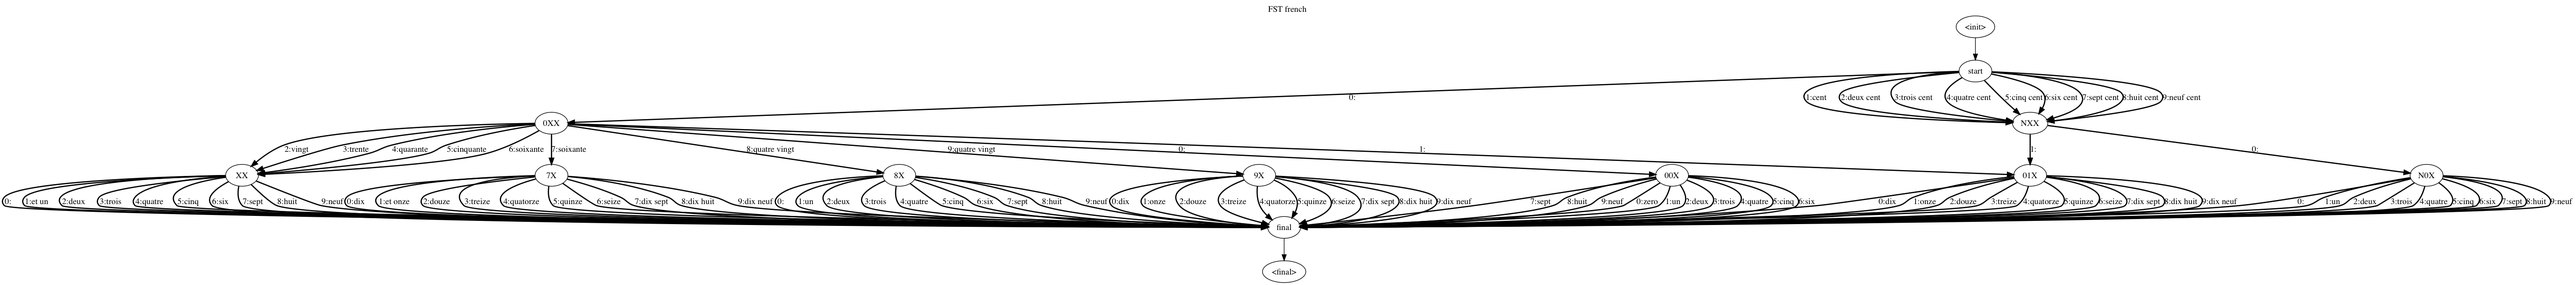
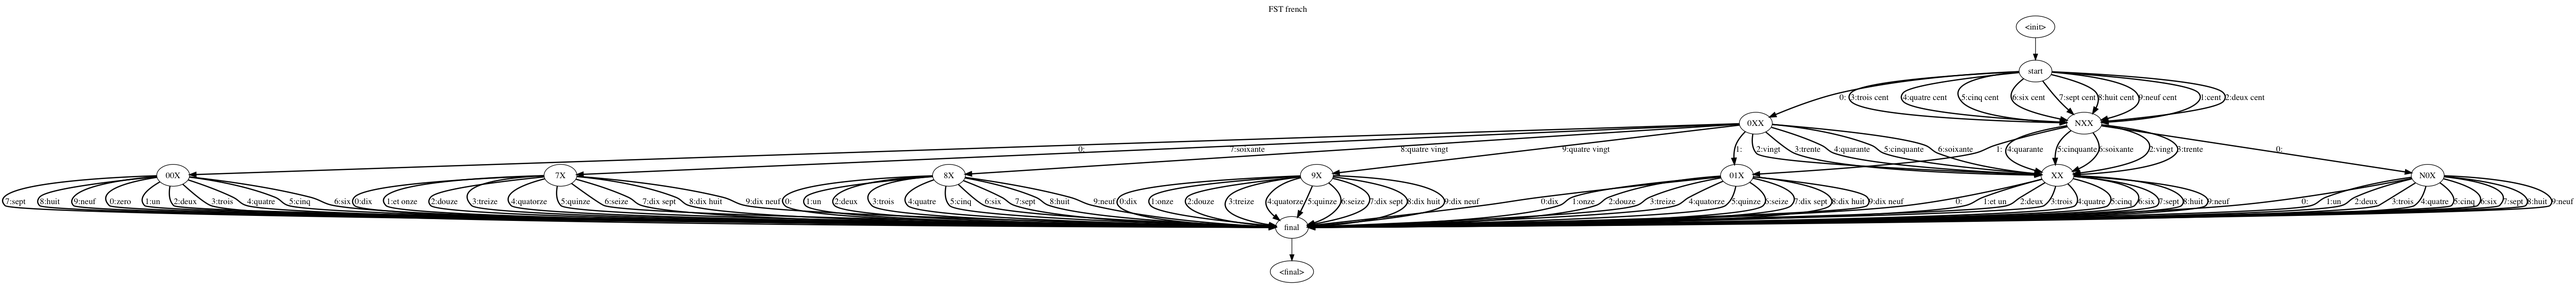
120-169 working

diff --git a/hw2.starter code/french_count.py b/hw2.starter code/french_count.py
@@ -197,6 +197,10 @@ def french_count():
     # 110-119
     f.add_arc('NXX', '01X', [str(1)], ())
 
+    # 120-169
+    for ii in xrange(2,7):
+        f.add_arc('NXX', 'XX', [str(ii)], [kFRENCH_TRANS[ii*10]])
+
 
     return f
 
